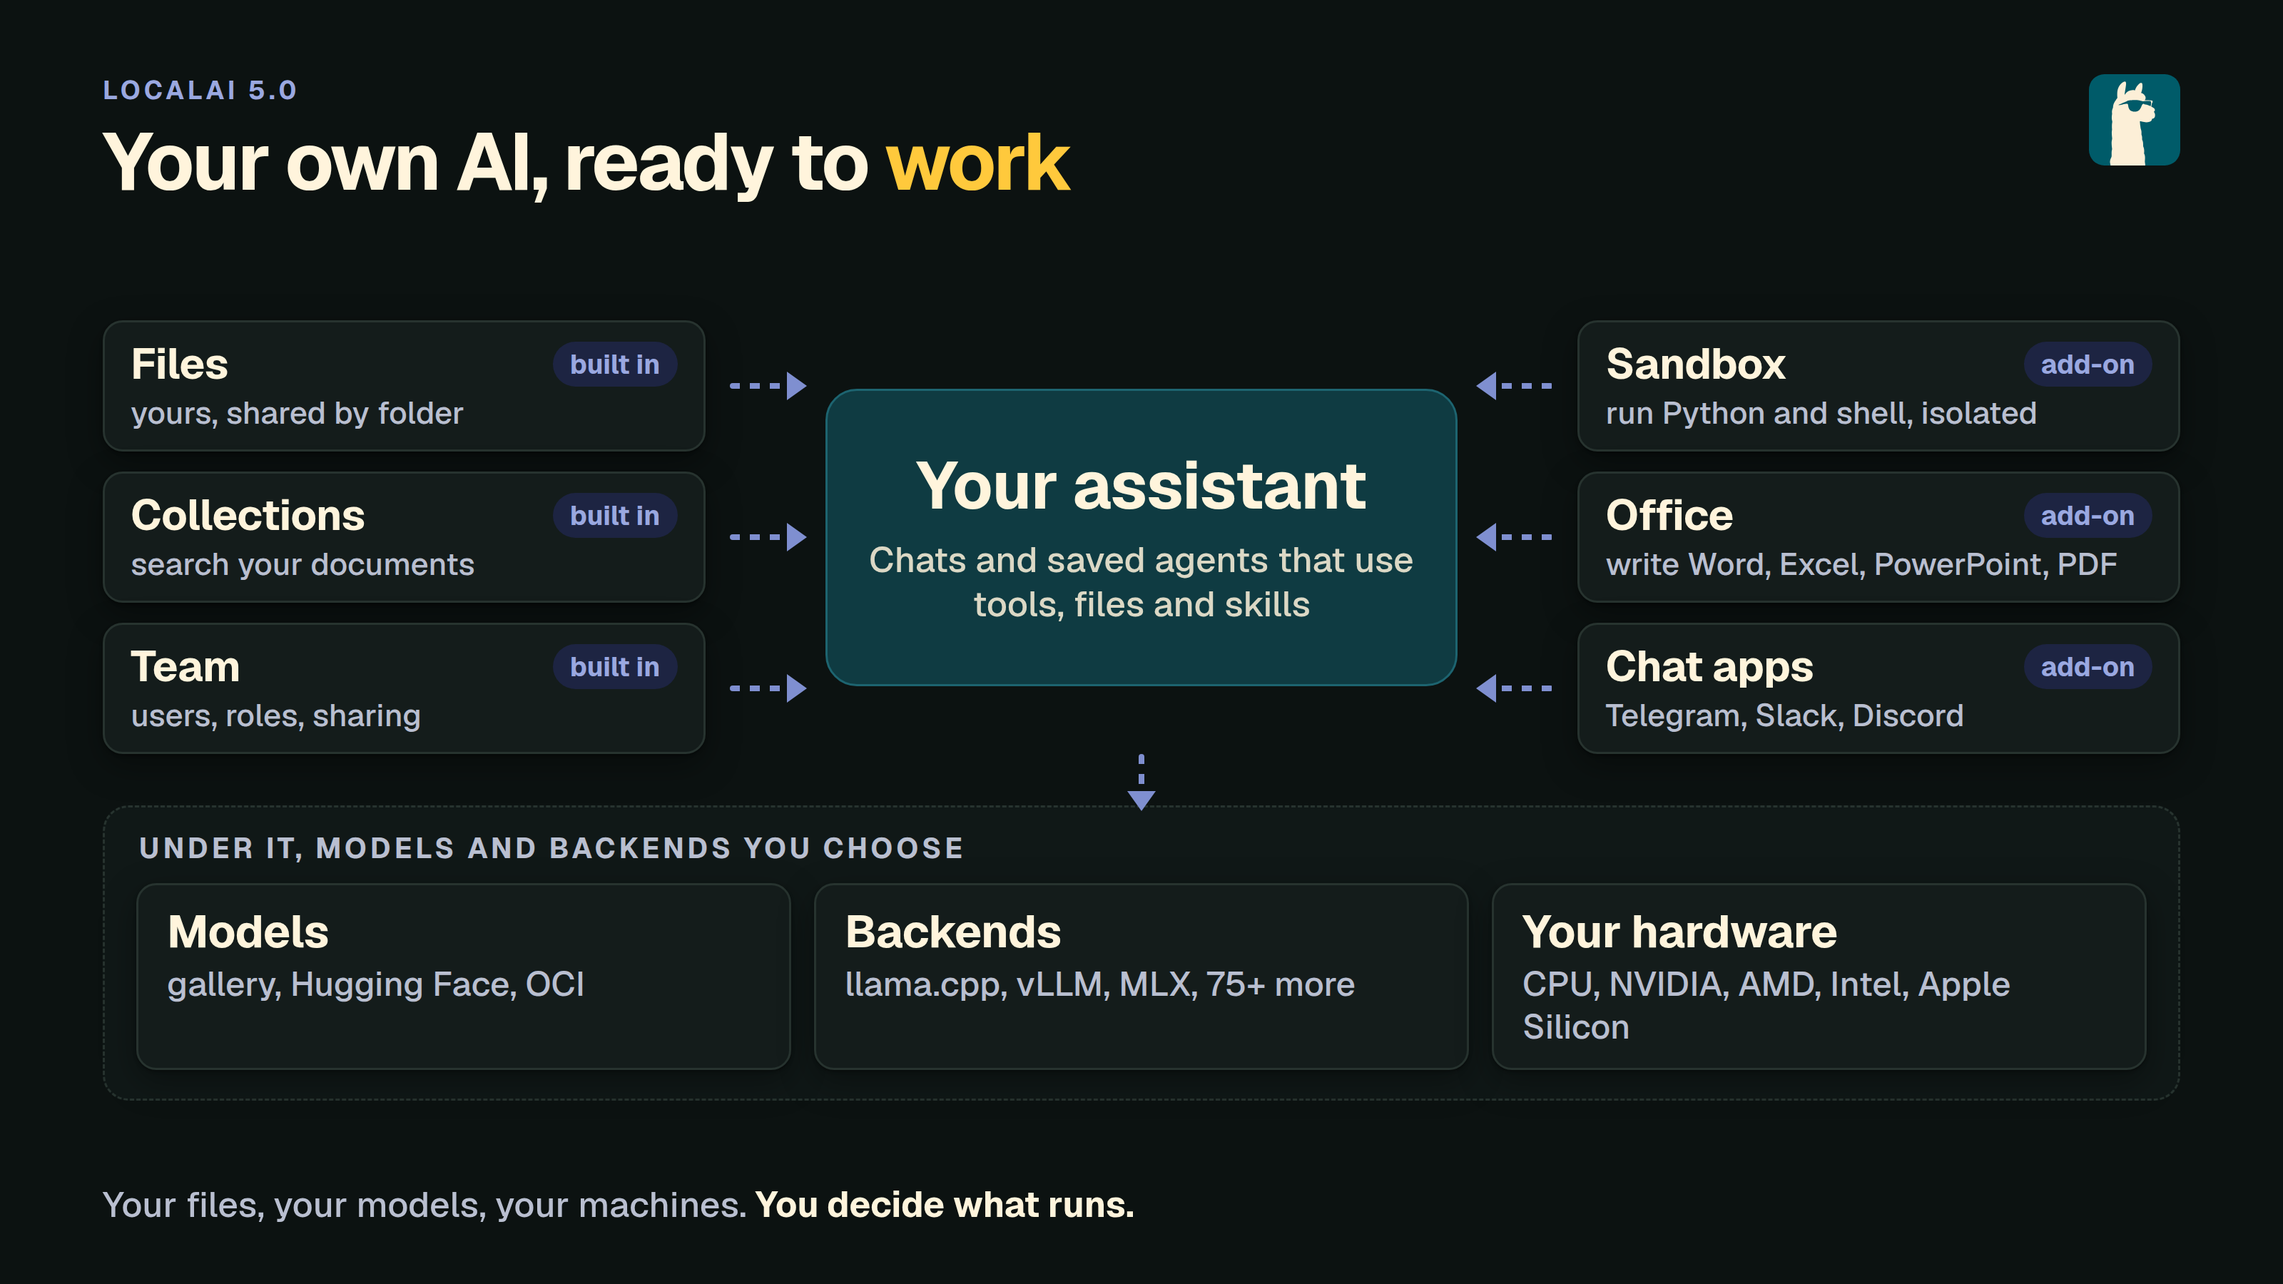
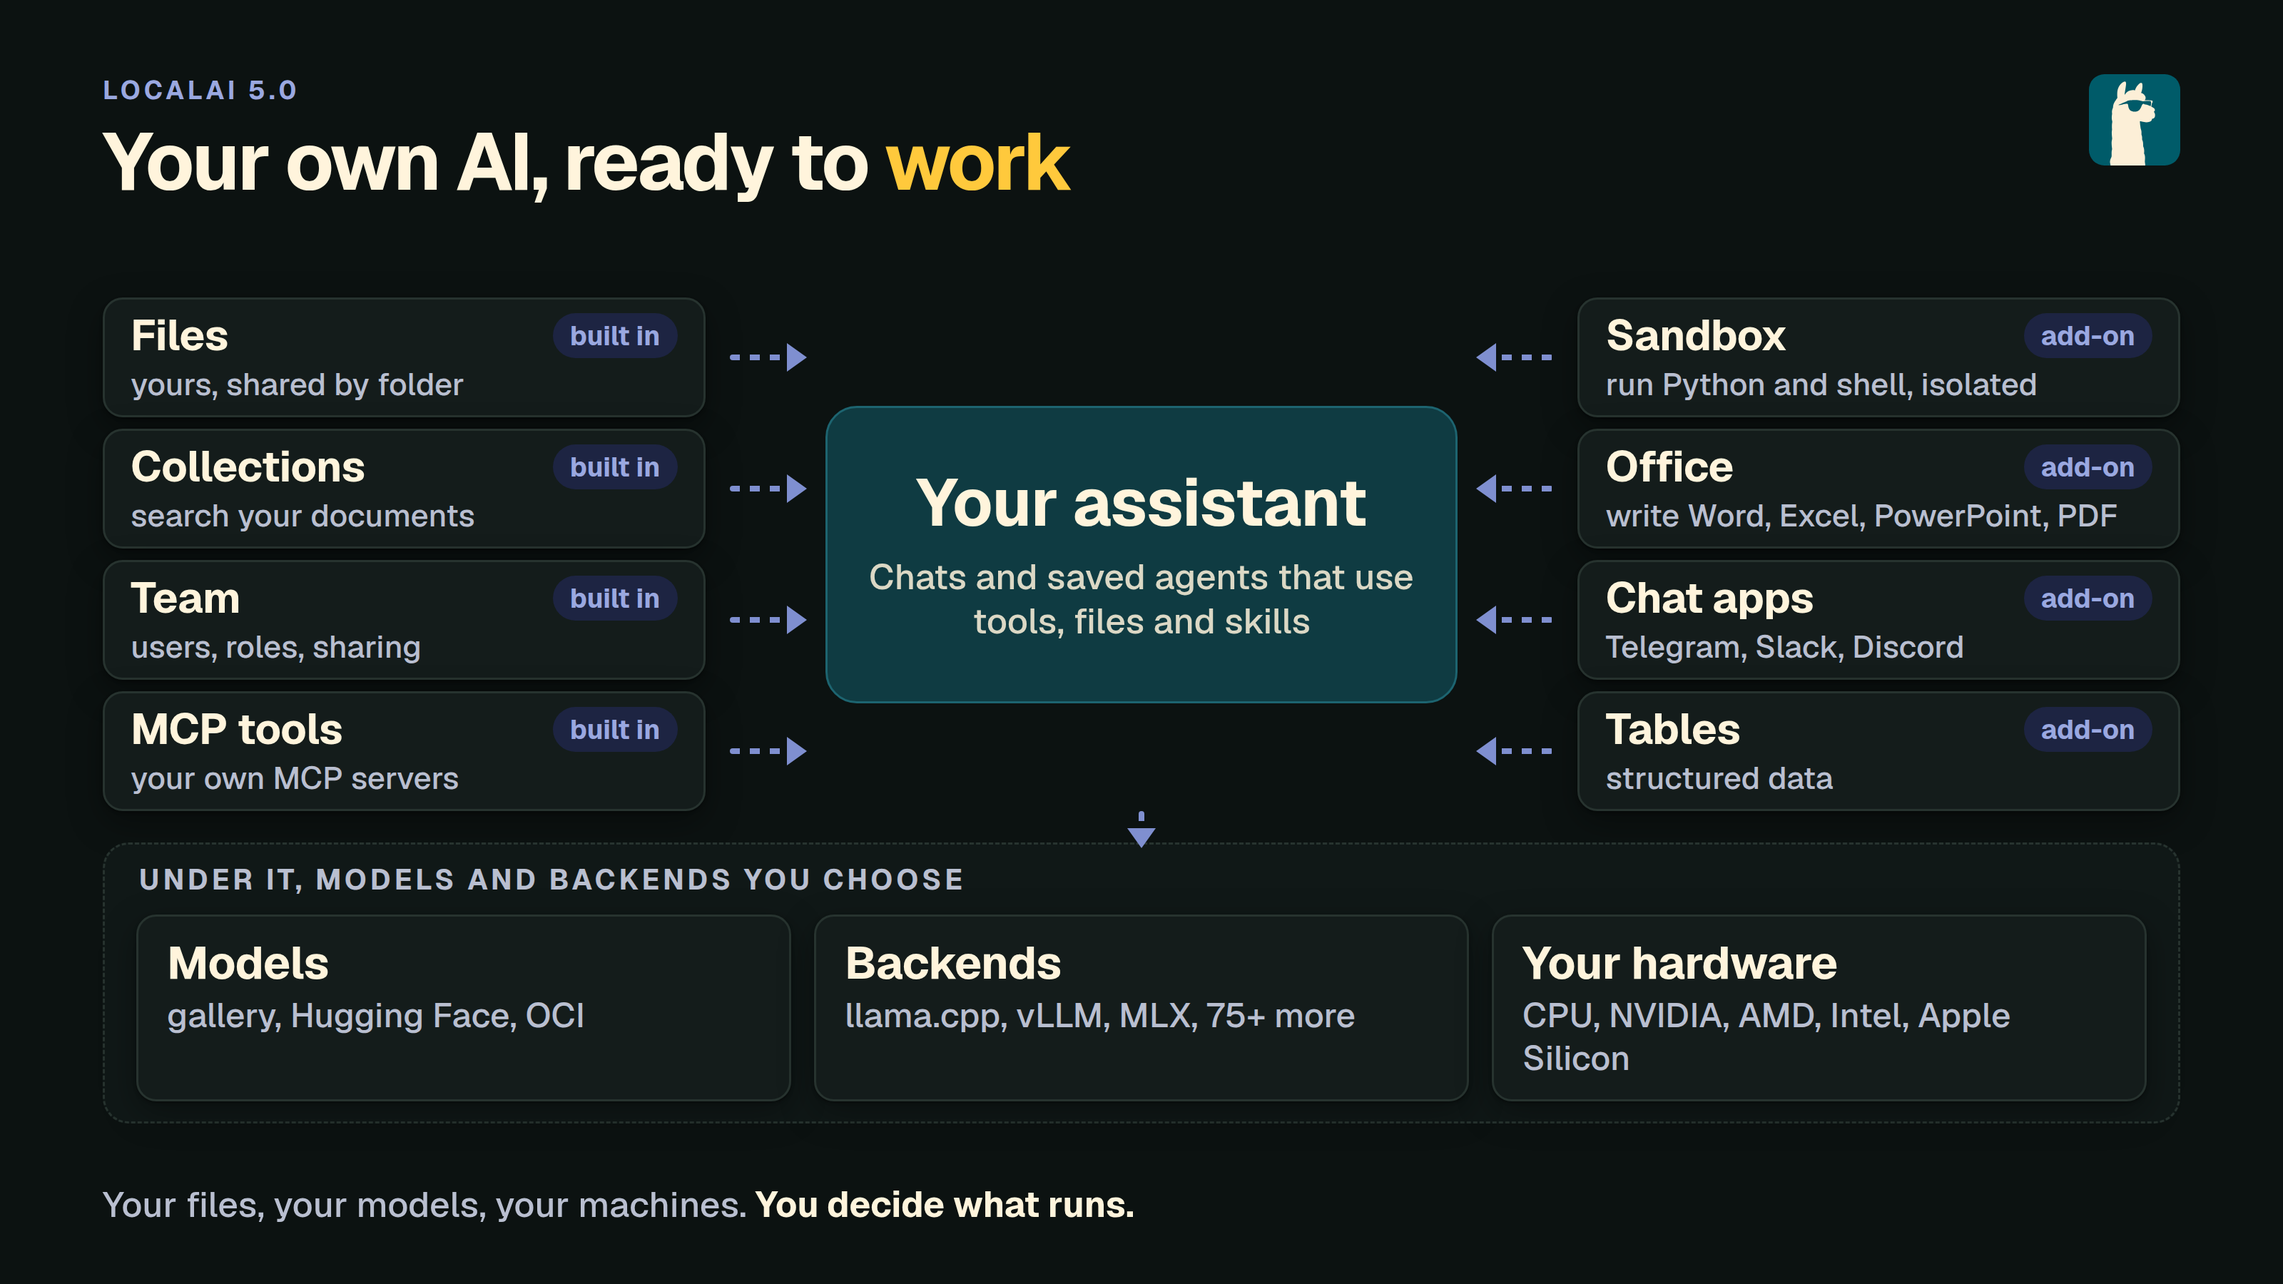
docs: show MCP in the 5.0 diagrams
The core and assistant pictures did not name MCP. Add an MCP client and
server cell to the core in the composable-core and architecture
diagrams, and MCP tools (built in) and Tables (add-on) to the assistant
story. The MCP diagram said the tool loop stops after 10 steps; that is
the API default, chats stop after 40. Extend the alt texts to match.

Assisted-by: Claude Code:claude-sonnet-5-5

diff --git a/docs/static/images/diagrams/assistant-story.html b/docs/static/images/diagrams/assistant-story.html
@@ -9,17 +9,19 @@
 <img class="mark" src="tile.svg" alt="">
 <div class="stage c">
 
-<div class="grid" style="grid-template-columns:1fr 56px 1.05fr 56px 1fr;grid-template-rows:repeat(3,auto);row-gap:14px;align-items:center">
- <div style="grid-row:1;grid-column:1"><div class="node" style="padding:12px 18px"><div class="row" style="justify-content:space-between"><b style="font-size:30px">Files</b><em class="pill" style="font-style:normal;font-size:19px;padding:4px 12px">built in</em></div><span style="font-size:22px">yours, shared by folder</span></div></div><div class="ar" style="grid-row:1;grid-column:2;width:50px;justify-self:center"></div>
- <div style="grid-row:2;grid-column:1"><div class="node" style="padding:12px 18px"><div class="row" style="justify-content:space-between"><b style="font-size:30px">Collections</b><em class="pill" style="font-style:normal;font-size:19px;padding:4px 12px">built in</em></div><span style="font-size:22px">search your documents</span></div></div><div class="ar" style="grid-row:2;grid-column:2;width:50px;justify-self:center"></div>
- <div style="grid-row:3;grid-column:1"><div class="node" style="padding:12px 18px"><div class="row" style="justify-content:space-between"><b style="font-size:30px">Team</b><em class="pill" style="font-style:normal;font-size:19px;padding:4px 12px">built in</em></div><span style="font-size:22px">users, roles, sharing</span></div></div><div class="ar" style="grid-row:3;grid-column:2;width:50px;justify-self:center"></div>
- <div class="node core cen" style="grid-row:1 / span 3;grid-column:3;padding:40px 24px"><b style="font-size:46px">Your assistant</b><span style="font-size:25px;margin-top:10px">Chats and saved agents that use tools, files and skills</span></div>
- <div class="ar back" style="grid-row:1;grid-column:4;width:50px;justify-self:center"></div><div style="grid-row:1;grid-column:5"><div class="node" style="padding:12px 18px"><div class="row" style="justify-content:space-between"><b style="font-size:30px">Sandbox</b><em class="pill" style="font-style:normal;font-size:19px;padding:4px 12px">add-on</em></div><span style="font-size:22px">run Python and shell, isolated</span></div></div>
- <div class="ar back" style="grid-row:2;grid-column:4;width:50px;justify-self:center"></div><div style="grid-row:2;grid-column:5"><div class="node" style="padding:12px 18px"><div class="row" style="justify-content:space-between"><b style="font-size:30px">Office</b><em class="pill" style="font-style:normal;font-size:19px;padding:4px 12px">add-on</em></div><span style="font-size:22px">write Word, Excel, PowerPoint, PDF</span></div></div>
- <div class="ar back" style="grid-row:3;grid-column:4;width:50px;justify-self:center"></div><div style="grid-row:3;grid-column:5"><div class="node" style="padding:12px 18px"><div class="row" style="justify-content:space-between"><b style="font-size:30px">Chat apps</b><em class="pill" style="font-style:normal;font-size:19px;padding:4px 12px">add-on</em></div><span style="font-size:22px">Telegram, Slack, Discord</span></div></div>
+<div class="grid" style="grid-template-columns:1fr 56px 1.05fr 56px 1fr;grid-template-rows:repeat(4,auto);row-gap:8px;align-items:center">
+ <div style="grid-row:1;grid-column:1"><div class="node" style="padding:8px 18px"><div class="row" style="justify-content:space-between"><b style="font-size:30px">Files</b><em class="pill" style="font-style:normal;font-size:19px;padding:4px 12px">built in</em></div><span style="font-size:22px">yours, shared by folder</span></div></div><div class="ar" style="grid-row:1;grid-column:2;width:50px;justify-self:center"></div>
+ <div style="grid-row:2;grid-column:1"><div class="node" style="padding:8px 18px"><div class="row" style="justify-content:space-between"><b style="font-size:30px">Collections</b><em class="pill" style="font-style:normal;font-size:19px;padding:4px 12px">built in</em></div><span style="font-size:22px">search your documents</span></div></div><div class="ar" style="grid-row:2;grid-column:2;width:50px;justify-self:center"></div>
+ <div style="grid-row:3;grid-column:1"><div class="node" style="padding:8px 18px"><div class="row" style="justify-content:space-between"><b style="font-size:30px">Team</b><em class="pill" style="font-style:normal;font-size:19px;padding:4px 12px">built in</em></div><span style="font-size:22px">users, roles, sharing</span></div></div><div class="ar" style="grid-row:3;grid-column:2;width:50px;justify-self:center"></div>
+ <div class="node core cen" style="grid-row:1 / span 4;grid-column:3;padding:40px 24px"><b style="font-size:46px">Your assistant</b><span style="font-size:25px;margin-top:10px">Chats and saved agents that use tools, files and skills</span></div>
+ <div class="ar back" style="grid-row:1;grid-column:4;width:50px;justify-self:center"></div><div style="grid-row:1;grid-column:5"><div class="node" style="padding:8px 18px"><div class="row" style="justify-content:space-between"><b style="font-size:30px">Sandbox</b><em class="pill" style="font-style:normal;font-size:19px;padding:4px 12px">add-on</em></div><span style="font-size:22px">run Python and shell, isolated</span></div></div>
+ <div class="ar back" style="grid-row:2;grid-column:4;width:50px;justify-self:center"></div><div style="grid-row:2;grid-column:5"><div class="node" style="padding:8px 18px"><div class="row" style="justify-content:space-between"><b style="font-size:30px">Office</b><em class="pill" style="font-style:normal;font-size:19px;padding:4px 12px">add-on</em></div><span style="font-size:22px">write Word, Excel, PowerPoint, PDF</span></div></div>
+ <div class="ar back" style="grid-row:3;grid-column:4;width:50px;justify-self:center"></div><div style="grid-row:3;grid-column:5"><div class="node" style="padding:8px 18px"><div class="row" style="justify-content:space-between"><b style="font-size:30px">Chat apps</b><em class="pill" style="font-style:normal;font-size:19px;padding:4px 12px">add-on</em></div><span style="font-size:22px">Telegram, Slack, Discord</span></div></div>
+<div style="grid-row:4;grid-column:1"><div class="node" style="padding:8px 18px"><div class="row" style="justify-content:space-between"><b style="font-size:30px">MCP tools</b><em class="pill" style="font-style:normal;font-size:19px;padding:4px 12px">built in</em></div><span style="font-size:22px">your own MCP servers</span></div></div><div class="ar" style="grid-row:4;grid-column:2;width:50px;justify-self:center"></div>
+ <div class="ar back" style="grid-row:4;grid-column:4;width:50px;justify-self:center"></div><div style="grid-row:4;grid-column:5"><div class="node" style="padding:8px 18px"><div class="row" style="justify-content:space-between"><b style="font-size:30px">Tables</b><em class="pill" style="font-style:normal;font-size:19px;padding:4px 12px">add-on</em></div><span style="font-size:22px">structured data</span></div></div>
 </div>
-<div class="row" style="justify-content:center"><div class="ar v" style="height:36px"></div></div>
-<div class="panel" style="padding:16px 22px 20px"><h3>Under it, models and backends you choose</h3>
+<div class="row" style="justify-content:center"><div class="ar v" style="height:22px"></div></div>
+<div class="panel" style="padding:12px 22px 14px"><h3>Under it, models and backends you choose</h3>
  <div class="row" style="gap:16px;align-items:stretch"><div class="node fl" style=""><b>Models</b><span>gallery, Hugging Face, OCI</span></div><div class="node fl" style=""><b>Backends</b><span>llama.cpp, vLLM, MLX, 75+ more</span></div><div class="node fl" style=""><b>Your hardware</b><span>CPU, NVIDIA, AMD, Intel, Apple Silicon</span></div></div></div>
 
 </div>

diff --git a/docs/static/images/diagrams/composable-core.html b/docs/static/images/diagrams/composable-core.html
@@ -10,7 +10,7 @@
 .core .t b { font-size: 46px; letter-spacing: -.02em; }
 .core ul { list-style: none; padding: 0; margin: 20px 0 0; display: grid; grid-template-columns: 1fr 1fr; gap: 10px; }
 .core li { font-size: 21px; background: rgb(255 244 220 / .13); border-radius: 10px; padding: 9px 12px; line-height: 1.2; }
-.hw { position: absolute; left: 50%; transform: translateX(-50%); top: 408px; width: 760px; text-align: center; }
+.hw { position: absolute; left: 50%; transform: translateX(-50%); top: 470px; width: 760px; text-align: center; }
 .hw .chips { display: flex; flex-wrap: wrap; justify-content: center; gap: 10px; margin-top: 10px; }
 .col3 .node b { font-size: 28px; } .col3 .node span { font-size: 21px; }
 .hw .pill { font-size: 20px; padding: 6px 14px; }
@@ -35,7 +35,7 @@
   </div>
   <div class="node core">
     <div class="t"><small>The core</small><b>LocalAI</b></div>
-    <ul><li>OpenAI and Anthropic API</li><li>Chats and agents</li><li>Files and Collections</li><li>Team and sharing</li><li>Home and pages</li><li>Model gallery</li></ul>
+    <ul><li>OpenAI and Anthropic API</li><li>Chats and agents</li><li>Files and Collections</li><li>Team and sharing</li><li>Home and pages</li><li>Model gallery</li><li style="grid-column:1/-1">MCP client and server, for agent tools</li></ul>
   </div>
   <div class="hw"><div class="lab">Runs on</div><div class="chips"><span class="pill">CPU</span><span class="pill">NVIDIA</span><span class="pill">AMD</span><span class="pill">Intel</span><span class="pill">Apple Silicon</span><span class="pill">Vulkan</span></div></div>
   <div class="col3 r"><div class="lab">Add-ons, from an admin</div>

diff --git a/docs/static/images/diagrams/architecture-overview.html b/docs/static/images/diagrams/architecture-overview.html
@@ -21,7 +21,7 @@
   <div class="abs" style="left:372px;top:230px;width:76px"><div class="ar" data-l="HTTP" style="width:76px"></div></div>
   <div class="pane" style="left:460px;width:470px"><div class="lab">The core</div>
     <div class="node core"><b>LocalAI</b><span>one process, written in Go</span>
-      <ul><li>API, auth and quotas</li><li>Model configs and gallery</li><li>Chats, agents and files</li><li>Add-on host</li></ul></div></div>
+      <ul><li>API, auth and quotas</li><li>Model configs and gallery</li><li>Chats, agents and files</li><li>Add-on host</li><li>MCP client and server</li></ul></div></div>
   <div class="abs" style="left:942px;top:230px;width:80px"><div class="ar" data-l="gRPC" style="width:76px"></div></div>
   <div class="pane" style="left:1030px;width:426px"><div class="lab">Backends, one per model</div><div class="col">
     <div class="node rowline"><b>llama.cpp</b><span>text, vision</span></div>

diff --git a/docs/static/images/diagrams/mcp-server-vs-client.html b/docs/static/images/diagrams/mcp-server-vs-client.html
@@ -17,7 +17,7 @@
     <div class="row">
       <div class="node" style="width:290px"><b>Your client</b><span>chat or API call</span></div>
       <div class="ar" style="width:70px"></div>
-      <div class="node core fl"><b>LocalAI runs the loop</b><span>model, tool call, tool result, model again</span><span style="margin-top:8px">Stops after <span class="code" style="display:inline;color:inherit">agent.max_iterations</span> steps, 10 by default</span></div>
+      <div class="node core fl"><b>LocalAI runs the loop</b><span>model, tool call, tool result, model again</span><span style="margin-top:8px">Stops after <span class="code" style="display:inline;color:inherit">agent.max_iterations</span> steps<br>(10 on the API, 40 in chats)</span></div>
       <div class="ar" style="width:70px"></div>
       <div class="node" style="width:290px"><b>MCP servers</b><span>HTTP or stdio</span></div>
     </div></div>

diff --git a/README.md b/README.md
@@ -24,7 +24,7 @@
 - **Every kind of model, one API**: text, vision, voice, images, video and embeddings, in the OpenAI, Anthropic and ElevenLabs formats, with more than 80 backends. Each backend is its own image, pulled only when a model needs it.
 - **Your hardware**: NVIDIA, AMD, Intel, Apple Silicon, Vulkan, NVIDIA Jetson or CPU only. The server, the models and your files stay on your own machines.
 
-![LocalAI is a small core with an API, chats and agents, files, collections, team sharing and a model gallery. Backends such as llama.cpp, vLLM, MLX and whisper.cpp plug in on one side, add-ons such as Office, Sandbox, Tables and chat apps on the other. It runs on CPU, NVIDIA, AMD, Intel, Apple Silicon and Vulkan.](docs/static/images/diagrams/composable-core.png)
+![LocalAI is a small core with an API, chats and agents, files, collections, team sharing, a model gallery and an MCP client and server for agent tools. Backends such as llama.cpp, vLLM, MLX and whisper.cpp plug in on one side, add-ons such as Office, Sandbox, Tables and chat apps on the other. It runs on CPU, NVIDIA, AMD, Intel, Apple Silicon and Vulkan.](docs/static/images/diagrams/composable-core.png)
 
 Created by [Ettore Di Giacinto](https://github.com/mudler) and maintained by the [LocalAI team](#team).
 

diff --git a/docs/content/concepts/architecture.md b/docs/content/concepts/architecture.md
@@ -11,7 +11,7 @@ LocalAI is an API written in Go. It follows the OpenAI API, so software that use
 
 LocalAI uses a mixture of backends written in various languages (C++, Golang, Python, ...). You can check [the model compatibility table]({{%relref "/models/compatibility-table" %}}) to learn about all the components of LocalAI.
 
-{{< diagram "architecture-overview" "How LocalAI works: clients call one API on a small core, which talks over gRPC to a separate backend process for each model, running on your own hardware." >}}
+{{< diagram "architecture-overview" "How LocalAI works: clients call one API on a small core with chats, agents, an add-on host and an MCP client and server, which talks over gRPC to a separate backend process for each model, running on your own hardware." >}}
 
 {{< diagram "request-flow" "How a request flows: the client calls the API, the model config picks a backend, the backend process runs the model over gRPC on your hardware, and tokens stream back." >}}
 

diff --git a/docs/content/start/whats-new.md b/docs/content/start/whats-new.md
@@ -16,7 +16,7 @@ This page lists the main capabilities of LocalAI 5.0. Each one has a tag.
 | **Add-on** | Comes from the add-on library. An administrator installs it. In the current development builds, the add-ons are in the development channel of the library, so they can change. |
 | **Admin on** | Built in, but on a server with accounts an administrator must switch it on for each user. With authentication off, you are the administrator and it is on. |
 
-{{< diagram "assistant-story" "Your assistant sits in the middle, with Files, Collections and Team built in and Sandbox, Office and chat apps as add-ons. Models, backends and your own hardware are underneath." >}}
+{{< diagram "assistant-story" "Your assistant sits in the middle, with Files, Collections, Team and MCP tools built in and Sandbox, Office, Tables and chat apps as add-ons. Models, backends and your own hardware are underneath." >}}
 
 ## The ten capabilities
 

diff --git a/docs/content/start/overview.md b/docs/content/start/overview.md
@@ -13,7 +13,7 @@ aliases = ["/overview/"]
 
 LocalAI is an AI server that runs on your own hardware. A small core speaks the OpenAI and Anthropic APIs. Each model backend is added only when you need it. Many existing clients work with it.
 
-{{< diagram "architecture-overview" "How LocalAI works: clients call one API on a small core, which talks over gRPC to a separate backend process for each model, running on your own hardware." >}}
+{{< diagram "architecture-overview" "How LocalAI works: clients call one API on a small core with chats, agents, an add-on host and an MCP client and server, which talks over gRPC to a separate backend process for each model, running on your own hardware." >}}
 
 ## Why LocalAI
 

diff --git a/docs/content/features/chats-and-agents/mcp.md b/docs/content/features/chats-and-agents/mcp.md
@@ -8,7 +8,7 @@ tags = ["MCP", "Agents", "Tools", "Advanced"]
 categories = ["Features"]
 +++
 
-{{< diagram "mcp-server-vs-client" "Server-side vs client-side MCP: the model's tool loop runs on the server or in the browser" >}}
+{{< diagram "mcp-server-vs-client" "Server-side vs client-side MCP: the model's tool loop runs on the server, which stops after agent.max_iterations steps, or an add-on page holds an MCP client in the browser behind the CORS proxy" >}}
 
 
 LocalAI supports the **Model Context Protocol (MCP)**. MCP connects models to external tools and services. Your models can use MCP servers to get live data, call APIs and use specialised tools.
